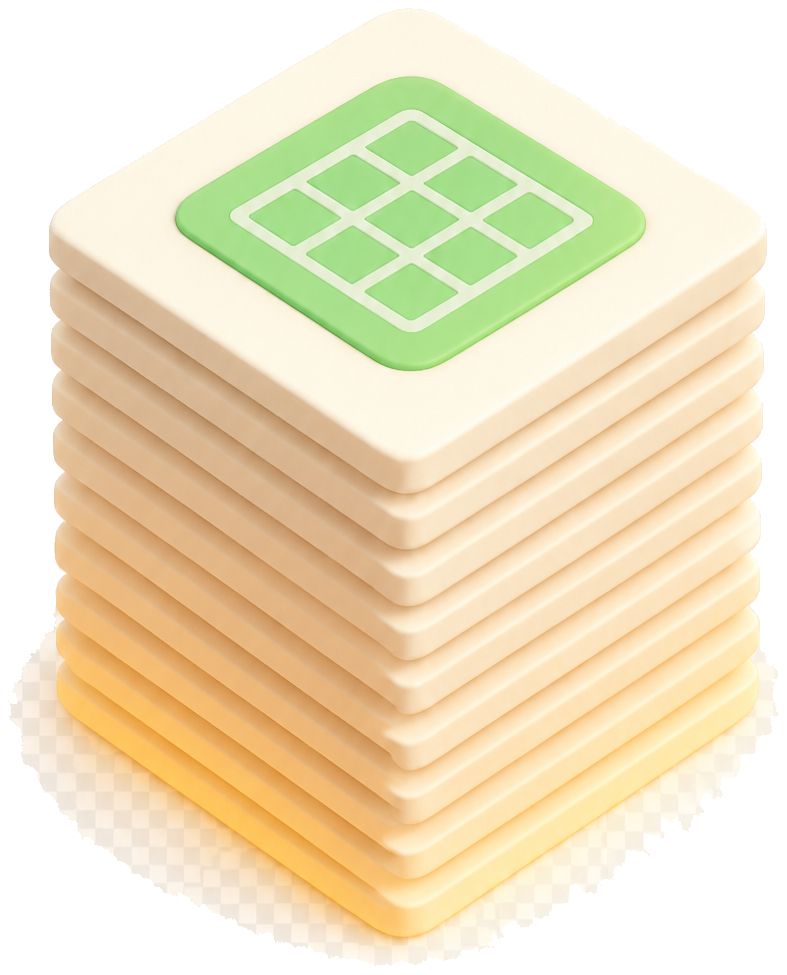
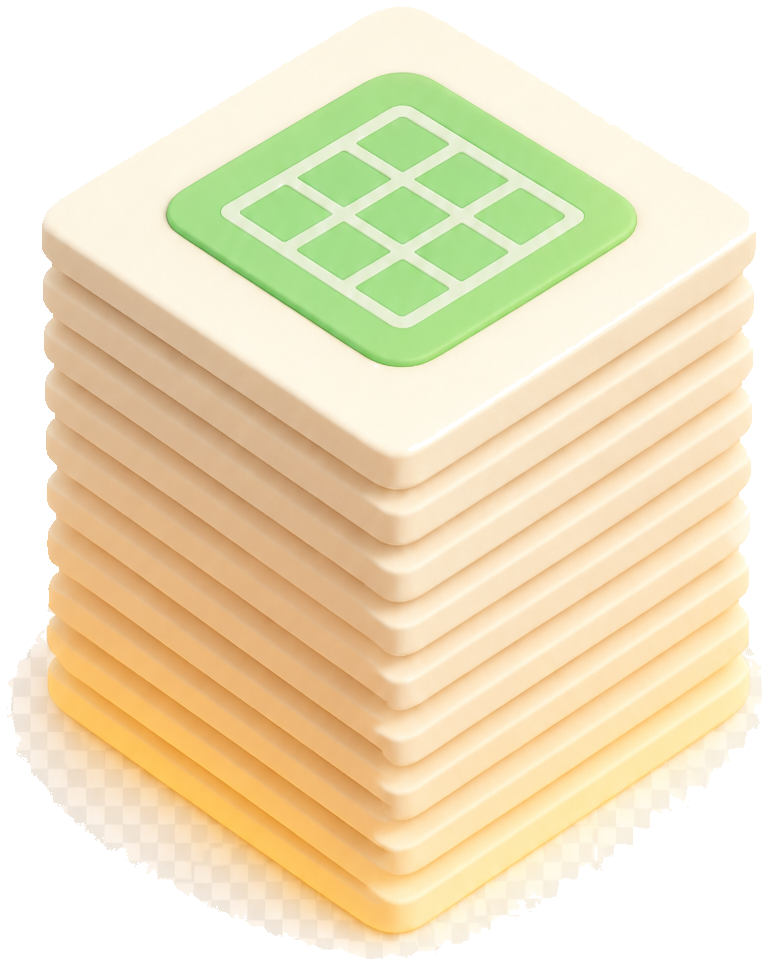
Trim leftover checkerboard from the 02 paper mountain.

diff --git a/components/paper-stack.tsx b/components/paper-stack.tsx
@@ -3,9 +3,9 @@
 import Image from "next/image";
 import { sheetCountFromActivity, stackMotion } from "@/lib/forest-ui";
 
-const STACK_SRC = "/clay-paper-stack.png?v=02match";
-const STACK_W = 787;
-const STACK_H = 975;
+const STACK_SRC = "/clay-paper-stack.png?v=02match2";
+const STACK_W = 771;
+const STACK_H = 965;
 
 function Sparkle({ className }: { className: string }) {
   return <span className={`sparkle ${className}`} />;
